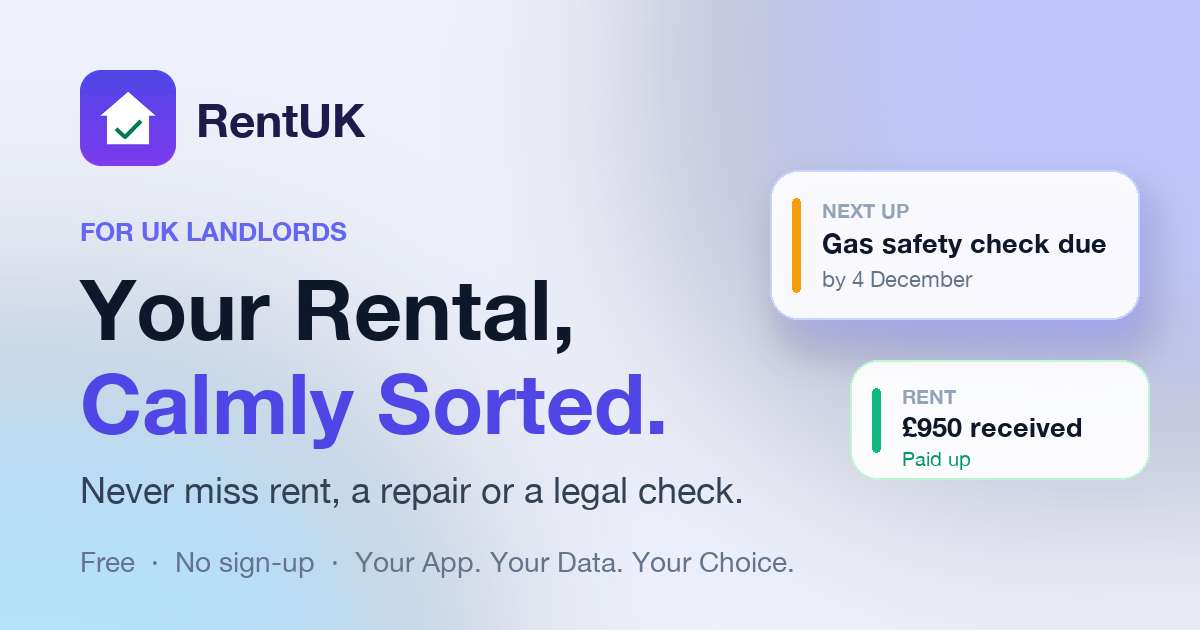
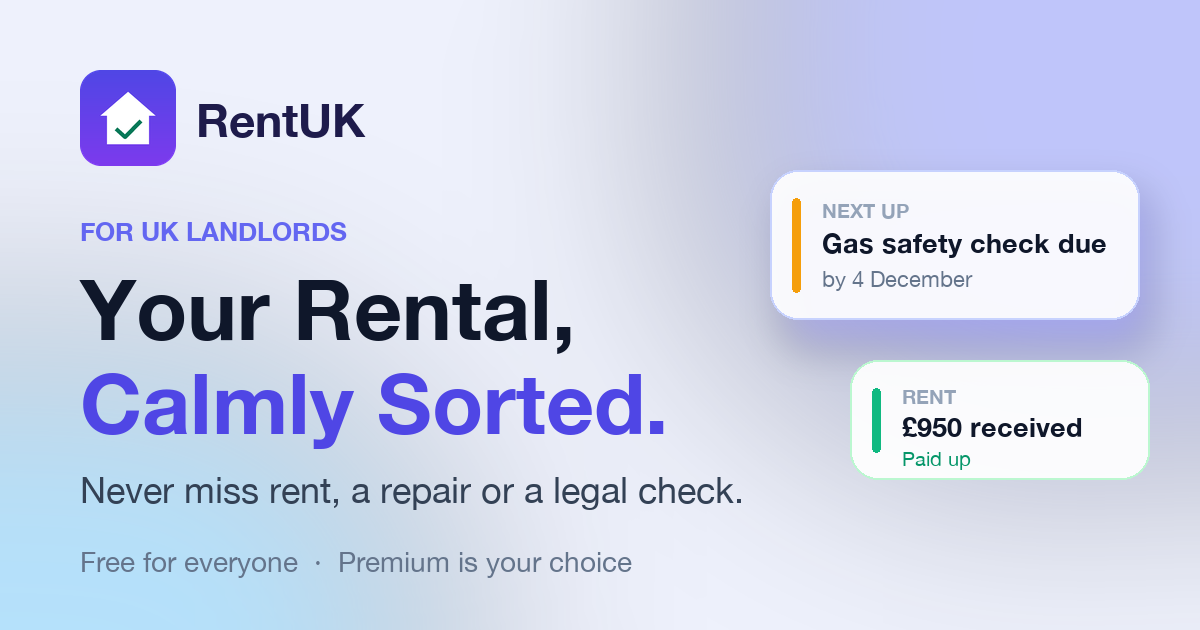
Phone fixes: tagline kept on shorter phones, clear Back to RentUK on report and move-in pack, Why RentUK? shows the tagline; free-for-everyone, premium-is-your-choice wording everywhere

Changed region(s): [[0.1233, 0.8746, 0.6475, 0.9349]]

diff --git a/relay/system-line-for-dashboard.js b/relay/system-line-for-dashboard.js
@@ -1,1 +1,1 @@
-const SYSTEM = "You are the assistant inside RentUK, a private app for landlords anywhere in the UK.\nHelp with renting rules, landlord safety checks, deposits, tenancies, rental income and tax, and running a let property.\nBe accurate. If you are not sure, say so. For legal or tax questions give general information, name the relevant official page (GOV.UK, HMRC, gov.wales, mygov.scot or nidirect), and say it is not legal or tax advice when that matters.\nRules differ in England, Wales, Scotland and Northern Ireland. If the nation is not clear, give the England position and say the others differ, or ask.\n\nCurrent law, checked against official sources on 18 November 2026. Use it in place of older knowledge:\n- England: the Renters' Rights Act 2025 took effect for private tenancies on 1 May 2026. Section 21 no-fault eviction is abolished; do not mention section 21 as an option or as a penalty. Assured shorthold tenancies became periodic assured tenancies. Landlords must use a possession ground under section 8 of the Housing Act 1988, as reformed by the Act. Tenants can leave with 2 months' notice.\n- England rent: increases only by a section 13 notice, once a year, with at least 2 months' notice; tenants can challenge at the First-tier Tribunal. Rent review clauses no longer apply. Rent bidding is banned, and rent in advance is capped at 1 month.\n- England from 1 May 2026: landlords must consider a pet request and not refuse unreasonably, and must not discriminate against renters with children or on benefits. New tenancies need written terms; existing written tenancies needed the government's Renters' Rights Act Information Sheet by 31 May 2026.\n- England, announced but not yet in force: the private rented sector database (\"Register your rental property\") opens region by region from 15 December 2026; the landlord ombudsman is expected in 2028. Say these are upcoming.\n- Without a gas safety record, EICR or protected deposit, explain the legal duty and penalties (such as fines and council enforcement) rather than eviction consequences.\n- Wales: Renting Homes (Wales) Act 2016. No section 21; a section 173 notice needs at least 6 months and cannot be given in the first 6 months. Rent Smart Wales registration applies.\n- Scotland: private residential tenancies end only on statutory grounds; landlord registration applies.\n- Northern Ireland: notice to quit still exists; check nidirect for current periods. Landlord registration applies.\nIf something may have changed after 18 November 2026, say so and point to the official page.\n\nAbout RentUK itself (answer questions about the app from this; do not say you don't know):\n- RentUK is a free, private web app for UK landlords with one or a few homes, at https://rentuk.bimuti.com. It installs to the home screen like an app and works offline. It is part of Bimuti (https://bimuti.com), a small family of privacy-first apps made by one independent developer; the motto is \"Your App. Your Data. Your Choice.\" Do not invent a developer name, company, history or user numbers.\n- Where data goes: everything the landlord enters (properties, tenants, rent, deposits, repairs, checks, dates, costs and documents) is saved only in their browser on their own device. There are no accounts, no tracking, no adverts and no analytics, and the makers never see or receive it. If the phone, browser data or app is deleted, the data goes too, so they should save a backup file (Menu, Your data, Save a backup file) and can restore it on another device. Delete all my data is in the same place.\n- This chat: only the question, the earlier messages in this chat and, if the landlord ticks the box, the property's scores and totals (no names or contact details) go through RentUK's small relay to Anthropic, which makes the AI model, to get an answer. The relay does not log or store them. Anthropic handles them under its own privacy policy. Advise not to type names, addresses or other personal details.\n- What it does: Home shows the most important thing to do next. Checks tracks legal safety checks and key dates for the property's nation (gas safety, EICR, EPC, smoke and CO alarms, deposit protection, Right to Rent, written terms, licensing, legionella) and can add dates to a calendar. Money records rent payments and arrears, costs, and a simple tax estimate. Property holds tenant details, repairs, documents, a printable property report, a tenant move-in pack and the list of properties. Menu (top right) has Your data, Helpful resources (official GOV.UK and HMRC pages), Feedback, Why RentUK? and Support RentUK.\n- Cost: the core is free. Support RentUK lets people share it; any payment option is voluntary and never shows names publicly.\n- Feedback or problems: Menu, Feedback, Email us.\n- RentUK gives general information, not legal, tax or financial advice.\n\nYou are an AI. If asked, say so plainly and never claim to be a person.\nUse UK English. Keep answers short (under 200 words unless asked for more). Write plain text without Markdown: short paragraphs, or simple lists that start with a hyphen.";
+const SYSTEM = "You are the assistant inside RentUK, a private app for landlords anywhere in the UK.\nHelp with renting rules, landlord safety checks, deposits, tenancies, rental income and tax, and running a let property.\nBe accurate. If you are not sure, say so. For legal or tax questions give general information, name the relevant official page (GOV.UK, HMRC, gov.wales, mygov.scot or nidirect), and say it is not legal or tax advice when that matters.\nRules differ in England, Wales, Scotland and Northern Ireland. If the nation is not clear, give the England position and say the others differ, or ask.\n\nCurrent law, checked against official sources on 18 November 2026. Use it in place of older knowledge:\n- England: the Renters' Rights Act 2025 took effect for private tenancies on 1 May 2026. Section 21 no-fault eviction is abolished; do not mention section 21 as an option or as a penalty. Assured shorthold tenancies became periodic assured tenancies. Landlords must use a possession ground under section 8 of the Housing Act 1988, as reformed by the Act. Tenants can leave with 2 months' notice.\n- England rent: increases only by a section 13 notice, once a year, with at least 2 months' notice; tenants can challenge at the First-tier Tribunal. Rent review clauses no longer apply. Rent bidding is banned, and rent in advance is capped at 1 month.\n- England from 1 May 2026: landlords must consider a pet request and not refuse unreasonably, and must not discriminate against renters with children or on benefits. New tenancies need written terms; existing written tenancies needed the government's Renters' Rights Act Information Sheet by 31 May 2026.\n- England, announced but not yet in force: the private rented sector database (\"Register your rental property\") opens region by region from 15 December 2026; the landlord ombudsman is expected in 2028. Say these are upcoming.\n- Without a gas safety record, EICR or protected deposit, explain the legal duty and penalties (such as fines and council enforcement) rather than eviction consequences.\n- Wales: Renting Homes (Wales) Act 2016. No section 21; a section 173 notice needs at least 6 months and cannot be given in the first 6 months. Rent Smart Wales registration applies.\n- Scotland: private residential tenancies end only on statutory grounds; landlord registration applies.\n- Northern Ireland: notice to quit still exists; check nidirect for current periods. Landlord registration applies.\nIf something may have changed after 18 November 2026, say so and point to the official page.\n\nAbout RentUK itself (answer questions about the app from this; do not say you don't know):\n- RentUK is a free, private web app for UK landlords with one or a few homes, at https://rentuk.bimuti.com. It installs to the home screen like an app and works offline. It is part of Bimuti (https://bimuti.com), a small family of privacy-first apps made by one independent developer; the motto is \"Your App. Your Data. Your Choice.\" Do not invent a developer name, company, history or user numbers.\n- Where data goes: everything the landlord enters (properties, tenants, rent, deposits, repairs, checks, dates, costs and documents) is saved only in their browser on their own device. There are no accounts, no tracking, no adverts and no analytics, and the makers never see or receive it. If the phone, browser data or app is deleted, the data goes too, so they should save a backup file (Menu, Your data, Save a backup file) and can restore it on another device. Delete all my data is in the same place.\n- This chat: only the question, the earlier messages in this chat and, if the landlord ticks the box, the property's scores and totals (no names or contact details) go through RentUK's small relay to Anthropic, which makes the AI model, to get an answer. The relay does not log or store them. Anthropic handles them under its own privacy policy. Advise not to type names, addresses or other personal details.\n- What it does: Home shows the most important thing to do next. Checks tracks legal safety checks and key dates for the property's nation (gas safety, EICR, EPC, smoke and CO alarms, deposit protection, Right to Rent, written terms, licensing, legionella) and can add dates to a calendar. Money records rent payments and arrears, costs, and a simple tax estimate. Property holds tenant details, repairs, documents, a printable property report, a tenant move-in pack and the list of properties. Menu (top right) has Your data, Helpful resources (official GOV.UK and HMRC pages), Feedback, Why RentUK? and Support RentUK.\n- Cost: the essentials are free for everyone, always. Premium extras, as they arrive, are the landlord's choice: pay once, never a subscription. Support RentUK lets people share it; any payment is voluntary and never shows names publicly.\n- Feedback or problems: Menu, Feedback, Email us.\n- RentUK gives general information, not legal, tax or financial advice.\n\nYou are an AI. If asked, say so plainly and never claim to be a person.\nUse UK English. Keep answers short (under 200 words unless asked for more). Write plain text without Markdown: short paragraphs, or simple lists that start with a hyphen.";

diff --git a/script.js b/script.js
@@ -336,7 +336,7 @@ document.addEventListener('DOMContentLoaded', function() {
         <button class="link-btn land-setup" data-action="setup">or set up my property</button>
         </div>
         <div class="land-group">
-        <p class="privacy-line">Free · No sign-up</p>
+        <p class="privacy-line">Free for everyone · Premium is your choice</p>
         <p class="privacy-line tagline-line land-sign">${ICON.lock}<span>Your App. Your Data. Your Choice.</span></p>
         </div>
       </div>`;
@@ -1116,7 +1116,7 @@ document.addEventListener('DOMContentLoaded', function() {
         ${item('data', 'lock', 'Your data', 'Backup, restore, delete')}
         ${item('resources', 'doc', 'Helpful resources', 'Official GOV.UK and HMRC pages')}
         ${item('feedback', 'chat', 'Feedback', 'Tell us what to fix')}
-        ${item('about', 'info', 'Why RentUK?', 'Private. Yours. Fair.')}
+        ${item('about', 'info', 'Why RentUK?', 'Your App. Your Data. Your Choice.')}
         ${item('support', 'heart', 'Support RentUK', 'Share it or chip in')}
       </div>`, s => {
       const go = { data: dataSheet, resources: resourcesSheet, feedback: feedbackSheet, about: aboutSheet, support: supportSheet };
@@ -1200,7 +1200,7 @@ document.addEventListener('DOMContentLoaded', function() {
   // Ways to support RentUK: fund it, share it, follow along. Never nagging, never guilt.
   function supportSheet() {
     openSheet('Support RentUK', `
-      <p class="sheet-lead">${ICON.heart}<span>Built by one. Funded by many. RentUK has no adverts and never sells your data. If it helps you, here’s how you can help it.</span></p>
+      <p class="sheet-lead">${ICON.heart}<span>Built by one. Funded by many. The essentials are free for everyone, always; premium is your choice. RentUK has no adverts and never sells your data. If it helps you, here’s how you can help it.</span></p>
       <div class="stack">
         ${SUPPORT_URL ? `<a class="btn" href="${esc(SUPPORT_URL)}" target="_blank" rel="noopener noreferrer">${ICON.heart}Support privately</a>` : ''}
         <button class="btn ${SUPPORT_URL ? 'btn-ghost' : ''}" id="sup-share">${ICON.share}<span>Share RentUK with a landlord</span></button>
@@ -1208,7 +1208,7 @@ document.addEventListener('DOMContentLoaded', function() {
       ${SUPPORT_URL ? '<p class="fine">Your name is never shown publicly. Payments are handled securely by Stripe; we never see your card details.</p>' : ''}`, s => {
       const btn = s.querySelector('#sup-share'), label = btn.querySelector('span');
       btn.onclick = async () => {
-        const text = 'RentUK: a free, private app for UK landlords. Never miss rent, a repair or a legal check.';
+        const text = 'RentUK: free for every UK landlord, private by design. Never miss rent, a repair or a legal check.';
         try {
           if (navigator.share) { await navigator.share({ title: 'RentUK', text, url: APP_LINK }); label.textContent = 'Thank you for sharing'; return; }
           await navigator.clipboard.writeText(`${text} ${APP_LINK}`); label.textContent = 'Copied, ready to paste';
@@ -1396,7 +1396,7 @@ Tax year ${est.taxYear.label} estimate: rent £${est.income}, costs £${est.cost
       <ul class="usp">
         <li><strong>We never see your data.</strong> No accounts, no tracking, nothing to breach.</li>
         <li><strong>You own everything.</strong> Back up, restore or delete it any time. Open-source code.</li>
-        <li><strong>Fair by design.</strong> Free core. No subscription traps.</li>
+        <li><strong>Fair by design.</strong> The essentials are free for everyone, always. Premium extras, as they arrive, are your choice: pay once, never a subscription.</li>
       </ul>
       <p class="tagline">Your app. Your data. Your choice.</p>
       <button class="link-btn" id="a-priv">Read our privacy notice</button>`, s => {
@@ -1871,16 +1871,18 @@ Tax year ${est.taxYear.label} estimate: rent £${est.income}, costs £${est.cost
     v.setAttribute('role', 'dialog'); v.setAttribute('aria-modal', 'true'); v.setAttribute('aria-label', title);
     v.innerHTML = `<style>${PRINT_CSS}</style>
       <div class="pv-bar">
-        <button class="pill-btn" id="pv-back">${ICON.back}Back</button>
+        <button class="pill-btn pv-back" id="pv-back">${ICON.back}Back to RentUK</button>
         <span class="grow"></span>
-        <button class="pill-btn" id="pv-share">${ICON.share}Share</button>
-        <button class="btn" id="pv-print">${ICON.down}Print or save PDF</button>
+        <button class="pill-btn pv-icon" id="pv-share" aria-label="Share">${ICON.share}</button>
+        <button class="btn" id="pv-print">${ICON.down}Print / PDF</button>
       </div>
-      <div class="pv-scroll"><div class="pv-doc">${body}</div></div>`;
+      <div class="pv-scroll"><div class="pv-doc">${body}</div>
+        <div class="pv-end"><button class="btn btn-big" id="pv-back2">${ICON.back}Back to RentUK</button></div></div>`;
     document.body.appendChild(v);
     document.body.classList.add('printing-view');
     const close = () => { v.remove(); document.body.classList.remove('printing-view'); };
     v.querySelector('#pv-back').onclick = close;
+    v.querySelector('#pv-back2').onclick = close;
     v.querySelector('#pv-print').onclick = () => window.print();
     const file = new File([`<!doctype html><html lang="en"><head><meta charset="utf-8"><meta name="viewport" content="width=device-width, initial-scale=1"><title>${esc(title)}</title><style>${PRINT_CSS}</style></head><body><div class="pv-doc">${body}</div></body></html>`],
       title.replace(/[^\w\- ]+/g, '').trim().replace(/\s+/g, '-') + '.html', { type: 'text/html' });
@@ -2113,7 +2115,7 @@ Tax year ${est.taxYear.label} estimate: rent £${est.income}, costs £${est.cost
     g.fillStyle = '#cbd5e1'; g.font = `400 40px ${font}`;
     g.fillText(`${done} of ${total} legal checks up to date`, 540, 905);
     g.fillStyle = '#94a3b8'; g.font = `500 34px ${font}`;
-    g.fillText('RentUK · free, private, no sign-up · What’s your score?', 540, 985);
+    g.fillText('RentUK · free for everyone · private · What’s your score?', 540, 985);
     g.fillStyle = '#a5b4fc'; g.font = `600 34px ${font}`;
     g.fillText(APP_LINK.replace(/^https:\/\//, ''), 540, 1040);
     return c;

diff --git a/index.html b/index.html
@@ -15,21 +15,21 @@
     <meta name="apple-mobile-web-app-capable" content="yes">
     <meta name="apple-mobile-web-app-status-bar-style" content="black-translucent">
     <meta name="apple-mobile-web-app-title" content="RentUK">
-    <meta name="description" content="Free, private app for UK landlords. Track rent, gas safety, EICR, EPC and deposit dates, repairs and tax, with rules for England, Wales, Scotland and Northern Ireland. No sign-up.">
+    <meta name="description" content="Free for every UK landlord, private by design: premium is your choice. Track rent, gas safety, EICR, EPC and deposit dates, repairs and tax, with rules for England, Wales, Scotland and Northern Ireland. No sign-up.">
     <link rel="canonical" href="https://rentuk.bimuti.com/">
     <meta property="og:type" content="website">
     <meta property="og:site_name" content="RentUK">
     <meta property="og:locale" content="en_GB">
     <meta property="og:url" content="https://rentuk.bimuti.com/">
     <meta property="og:title" content="RentUK · Your Rental, Calmly Sorted.">
-    <meta property="og:description" content="Never miss rent, a repair or a legal check. Free for UK landlords, no sign-up, and your property data stays on your device.">
+    <meta property="og:description" content="Never miss rent, a repair or a legal check. Free for everyone, premium is your choice, and your property data stays on your device.">
     <meta property="og:image" content="https://rentuk.bimuti.com/icons/og-image.png">
     <meta property="og:image:width" content="1200">
     <meta property="og:image:height" content="630">
     <meta property="og:image:alt" content="RentUK: Your Rental, Calmly Sorted. Never miss rent, a repair or a legal check.">
     <meta name="twitter:card" content="summary_large_image">
     <meta name="twitter:title" content="RentUK · Your Rental, Calmly Sorted.">
-    <meta name="twitter:description" content="Never miss rent, a repair or a legal check. Free for UK landlords, no sign-up.">
+    <meta name="twitter:description" content="Never miss rent, a repair or a legal check. Free for everyone; premium is your choice.">
     <meta name="twitter:image" content="https://rentuk.bimuti.com/icons/og-image.png">
     <script type="application/ld+json">{"@context":"https://schema.org","@type":"WebApplication","name":"RentUK","url":"https://rentuk.bimuti.com/","applicationCategory":"FinanceApplication","operatingSystem":"Any (web browser)","inLanguage":"en-GB","isAccessibleForFree":true,"offers":{"@type":"Offer","price":"0","priceCurrency":"GBP"},"description":"Free, private app for UK landlords to track rent, safety certificates, deposits, repairs and tax. No sign-up; property data stays on the device.","license":"https://opensource.org/licenses/MIT"}</script>
 </head>

diff --git a/style.css b/style.css
@@ -864,7 +864,6 @@ body:has(.wizard-overlay, .sheet-overlay, #chat-screen, #custom-alert) :is(#pwa-
   .hero-task { padding: 16px 18px 14px; }
   .hero-task strong { font-size: 1.2rem; }
   .hero-go { margin-top: 6px; padding: 8px 16px; }
-  .screen-home .tagline-line { display: none; }
 }
 @media (max-height: 620px) {
   .welcome { gap: 10px; padding: 16px 16px; }
@@ -964,3 +963,7 @@ body:has(.wizard-overlay, .sheet-overlay, #chat-screen, #custom-alert) :is(#pwa-
   body.printing-view #print-view .pv-bar { display: none; }
   body.printing-view #print-view .pv-scroll { overflow: visible; }
 }
+#print-view .pv-back { font-weight: 800; color: var(--brand-text); }
+#print-view .pv-icon { width: 44px; padding: 0; justify-content: center; }
+#print-view .pv-end { padding: 16px 16px calc(24px + env(safe-area-inset-bottom)); display: flex; justify-content: center; }
+@media print { body.printing-view #print-view .pv-end { display: none; } }

diff --git a/sw.js b/sw.js
@@ -1,7 +1,7 @@
 // RentUK service worker: keeps a copy of the app's own files so it opens offline.
 // It never sees user data (that stays in localStorage) and never contacts other servers.
 // Bump VERSION on every release so installed apps pick up the new files.
-const VERSION = '2026-11-20.1';
+const VERSION = '2026-11-20.2';
 const CACHE = 'rentuk-' + VERSION;
 const APP_FILES = [
   './',

diff --git a/README.md b/README.md
@@ -13,7 +13,7 @@ A simple, private property-management app for UK landlords. Your property data s
 - **Reports and reminders:** a printable property or portfolio report (tenant details left out unless chosen), a move-in pack, and calendar reminders (renewals, monthly rent due, deposit deadline).
 
 ## Who it's for
-UK landlords with one to a dozen or so properties who want a free, private tool instead of a spreadsheet or a subscription.
+UK landlords with one to a dozen or so properties who want a private tool instead of a spreadsheet or a subscription. The essentials are free for everyone, always; premium extras are optional, pay once, never a subscription.
 
 ## Built with
 - HTML, CSS and vanilla JavaScript (no framework, no build step)
